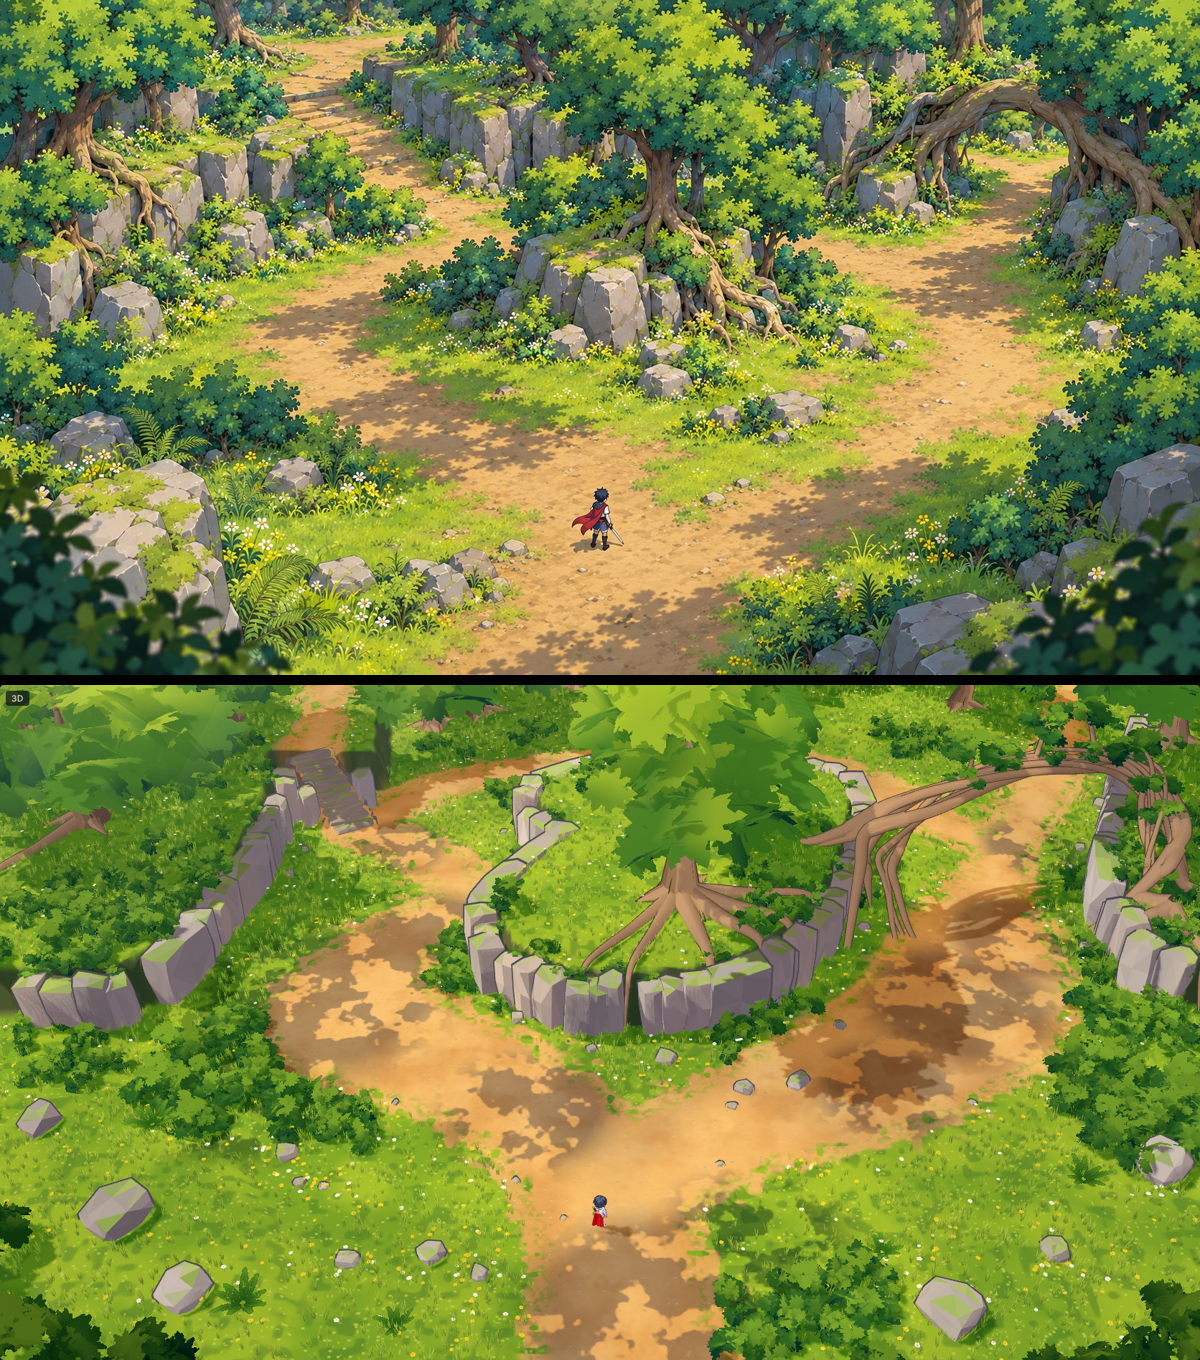
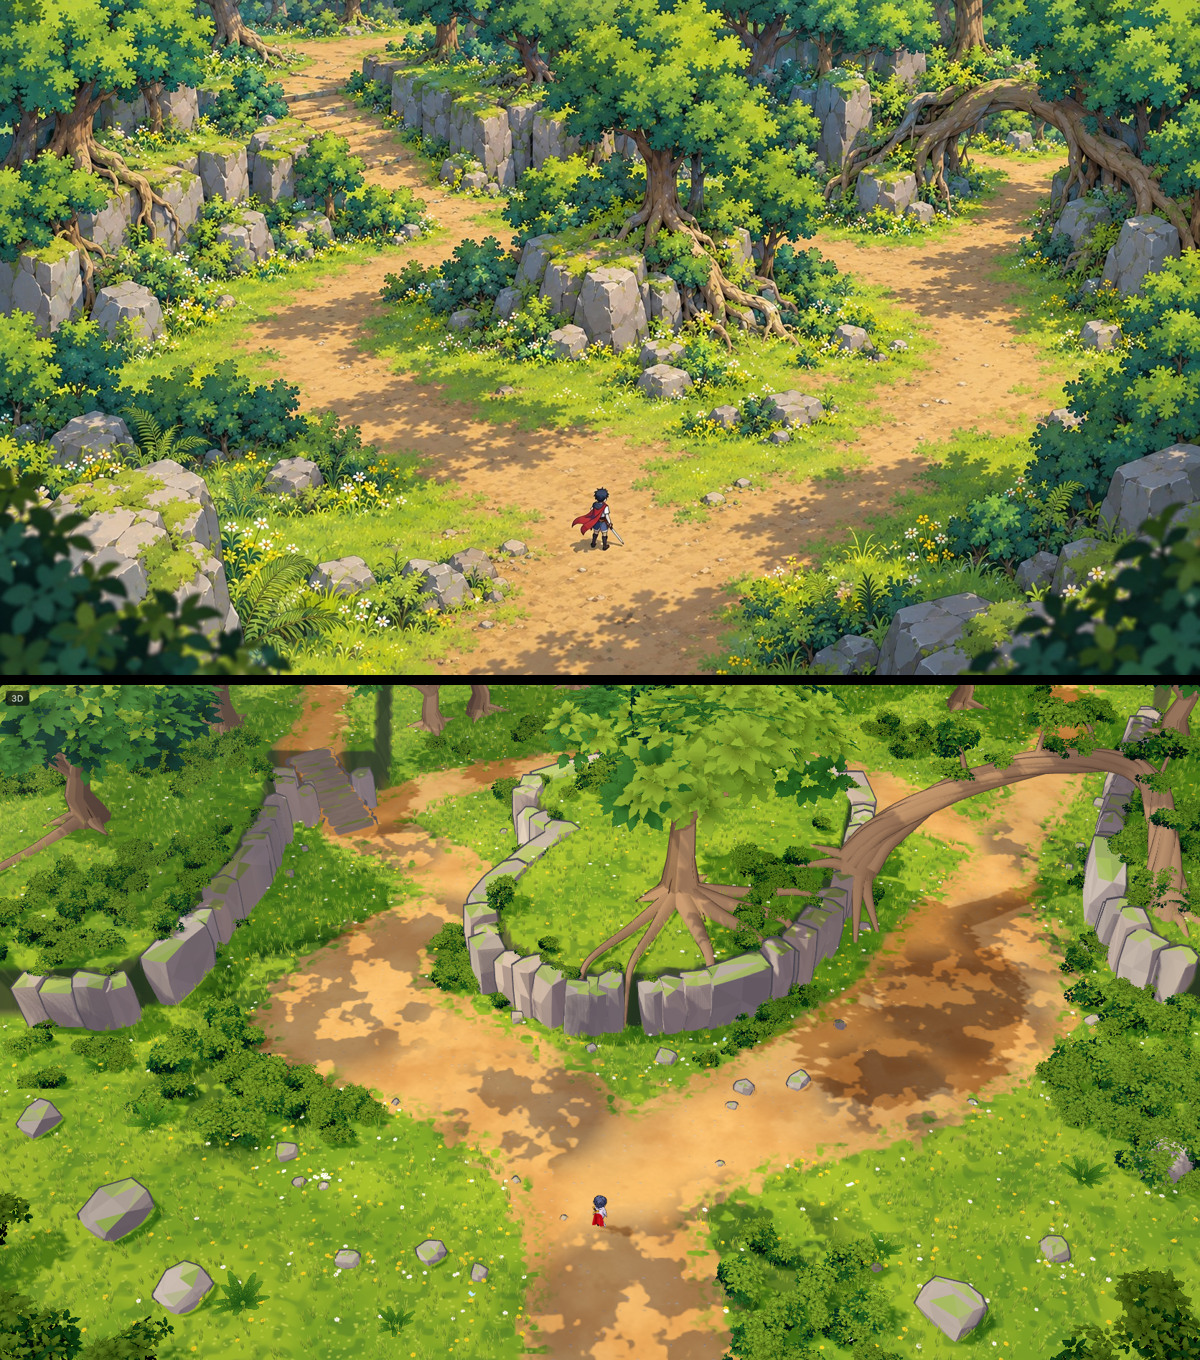
Forest scene: leaf-puff crowns and shrubs, root arch as a twisted trunk with buttresses
Claude-Session: https://claude.ai/code/session_01N6NyACoSM5MyJPcPLs4wAw

diff --git a/scenes/forest/scene.js b/scenes/forest/scene.js
@@ -325,6 +325,83 @@ function fernGeometry() {
   g.setAttribute('normal', new THREE.Float32BufferAttribute(nn, 3)); return g;
 }
 
+// ---------- crowns and shrubs as the concept paints them: many small leaf puffs ----------
+// Each puff is a cluster of cards carrying small lobed leaves; a puff is lit on its own (bright
+// upper-left, deep teal underneath) and a dark core fills the gaps, so a crown reads as a heap
+// of leaf clumps instead of one smooth blob.
+const clumpMaps = new Map();
+function clumpTexture(shrub = false) {
+  if (clumpMaps.has(shrub)) return clumpMaps.get(shrub);
+  const cv = document.createElement('canvas'); cv.width = cv.height = 512;
+  const c = cv.getContext('2d'), rng = mkRng(shrub ? 77 : 41);
+  for (let tile = 0; tile < 4; tile++) {
+    const ox = (tile % 2) * 256 + 128, oy = Math.floor(tile / 2) * 256 + 128;
+    // a rosette of lobed leaves pointing out from the middle, the biggest at the back
+    const n = shrub ? 6 + (tile % 2) : 9 + tile;
+    for (let i = 0; i < n; i++) {
+      const a = i / n * Math.PI * 2 + rng.range(-0.25, 0.25), len = shrub ? rng.range(78, 104) : rng.range(52, 86), wid = len * rng.range(0.42, 0.55);
+      c.save(); c.translate(ox + Math.cos(a) * rng.range(14, 30), oy + Math.sin(a) * rng.range(14, 30)); c.rotate(a);
+      const g = c.createLinearGradient(0, 0, len, 0); g.addColorStop(0, '#b8b8b8'); g.addColorStop(0.55, '#f2f2f2'); g.addColorStop(1, '#ffffff');
+      c.fillStyle = g; c.beginPath(); c.moveTo(0, 0);
+      // three lobes a side with small notches between, a pointed tip
+      for (const side of [-1, 1]) {
+        const pts = [];
+        for (let k = 1; k <= 3; k++) { const t = k / 4; pts.push([len * (t - 0.06), side * wid * 0.5 * Math.sin(t * Math.PI) * 1.15], [len * (t + 0.04), side * wid * 0.5 * Math.sin(t * Math.PI) * 0.72]); }
+        if (side < 0) { for (const [x, y] of pts) c.lineTo(x, y); c.lineTo(len, 0); }
+        else for (const [x, y] of pts.reverse()) c.lineTo(x, y);
+      }
+      c.closePath(); c.fill(); c.restore();
+    }
+  }
+  const t = new THREE.CanvasTexture(cv); t.colorSpace = THREE.SRGBColorSpace; t.anisotropy = 4;
+  clumpMaps.set(shrub, t); return t;
+}
+function clumpFoliage(seed = 3, shrub = false) {
+  const rng = mkRng(seed * 13 + (shrub ? 5 : 1)), p = [], n = [], c = [], uv = [];
+  const [dark, mid, light] = (shrub ? FOL.shrub : FOL.leaf).map(h => new THREE.Color(h));
+  const deep = dark.clone().multiplyScalar(0.72), sunDir = new V3(-0.55, 0.8, 0.25).normalize();
+  // the crown's envelope (unit space, as the game's crowns): a dome for trees, a mound for shrubs
+  const E = shrub ? { x: 0.62, y: 0.45, z: 0.48, cy: 0.42, puffs: 8, r: [0.24, 0.34], cards: 8, lift: 0.16 } : { x: 0.9, y: 0.55, z: 0.75, cy: 0.3, puffs: 28, r: [0.24, 0.36], cards: 13, lift: -0.05 };
+  const puffs = [];
+  for (let i = 0; i < E.puffs; i++) {
+    // spread over the envelope's surface, a few inside; none on the flat underside
+    const u = rng.range(0, Math.PI * 2), v = Math.acos(rng.range(-0.35, 1)), k = i < 3 ? 0.45 : rng.range(0.75, 1.0);
+    puffs.push({ c: new V3(Math.sin(v) * Math.cos(u) * E.x * k, E.cy + Math.cos(v) * E.y * k, Math.sin(v) * Math.sin(u) * E.z * k), r: rng.range(...E.r) });
+  }
+  const col = new THREE.Color(), tmp = new V3();
+  const card = (centre, normal, size, roll, tile, tone) => {
+    const across = new V3().crossVectors(new V3(0, 1, 0), normal); if (across.lengthSq() < 1e-3) across.set(1, 0, 0); else across.normalize();
+    const along = new V3().crossVectors(normal, across).normalize();
+    const x = across.clone().multiplyScalar(Math.cos(roll)).addScaledVector(along, Math.sin(roll)), y = along.clone().multiplyScalar(Math.cos(roll)).addScaledVector(across, -Math.sin(roll));
+    for (const [a, b] of [[-1, -1], [1, -1], [1, 1], [-1, -1], [1, 1], [-1, 1]]) {
+      const v = centre.clone().addScaledVector(x, a * size * 0.5).addScaledVector(y, b * size * 0.5).addScaledVector(normal, size * 0.12 * (1 - Math.abs(a * b)));
+      p.push(v.x, v.y, v.z); n.push(normal.x, normal.y, normal.z); c.push(tone.r, tone.g, tone.b);
+      uv.push(((tile % 2) + (a + 1) * 0.5) * 0.5, (Math.floor(tile / 2) + (b + 1) * 0.5) * 0.5);
+    }
+  };
+  // the dark core: big cards round the middle, so gaps between the puffs show shade, not sky
+  for (let i = 0; i < 10; i++) {
+    const a = i * 2.39996, nrm = new V3(Math.cos(a), rng.range(-0.2, 0.5), Math.sin(a)).normalize();
+    card(new V3(nrm.x * E.x * 0.45, E.cy + nrm.y * E.y * 0.35, nrm.z * E.z * 0.45), nrm, E.x * 0.85, rng.range(-1, 1), i % 4, deep);
+  }
+  for (const P0 of puffs) {
+    const ph = THREE.MathUtils.clamp((P0.c.y - E.cy + E.y) / (2 * E.y), 0, 1), jit = rng.range(-0.06, 0.06);
+    for (let i = 0; i < E.cards; i++) {
+      const a = i * 2.39996 + rng.range(-0.3, 0.3), up = rng.range(-0.25, 1);
+      const nrm = new V3(Math.cos(a) * Math.sqrt(1 - up * up), up, Math.sin(a) * Math.sqrt(1 - up * up)).normalize();
+      const centre = P0.c.clone().addScaledVector(nrm, P0.r * rng.range(0.55, 0.95));
+      // lit by the puff's own roundness and its height in the crown: three hard steps
+      const lit = nrm.dot(sunDir) * 0.5 + ph * 0.45 + jit + 0.12 + E.lift;
+      if (lit > 0.62) col.copy(light); else if (lit > 0.3) col.copy(mid); else col.copy(dark);
+      col.multiplyScalar(rng.range(0.94, 1.05));
+      card(centre, tmp.copy(nrm).lerp(new V3(0, 1, 0), 0.35).normalize(), P0.r * rng.range(1.45, 1.9), rng.range(-3, 3), (i + puffs.indexOf(P0)) % 4, col);
+    }
+  }
+  const g = new THREE.BufferGeometry();
+  for (const [key, array, size] of [['position', p, 3], ['normal', n, 3], ['color', c, 3], ['uv', uv, 2]]) g.setAttribute(key, new THREE.Float32BufferAttribute(array, size));
+  g.computeBoundingSphere(); return g;
+}
+
 // ---------- ambience: motes in the light, butterflies over the flowers ----------
 const AMB = { flies: [], motes: null };
 function buildAmbience() {
@@ -363,7 +440,7 @@ function updateAmbience(t) {
 }
 
 // this scene's colours, measured from the concept: olive-yellow light, deep blue-green shade
-FOL.leaf = ['#1f493b', '#5a8a35', '#a9c13c']; FOL.shrub = ['#1c4437', '#3d6c31', '#7ea23a'];
+FOL.leaf = ['#1d4a3e', '#4d873d', '#a2bf45']; FOL.shrub = ['#1a4236', '#3b7338', '#8cae40'];
 FOL.trunk = { light: '#c49c76', mid: '#9d7b5d', shadow: '#6f5749', line: '#4a372e' };
 STONE.splice(0, STONE.length, '#cdb9a6', '#c2b3a3', '#d2c2b0', '#b9ab9c', '#c8b8a6', '#bcae9f');
 MOSS.splice(0, MOSS.length, '#a7c63f', '#93b23a', '#b5c94c');
@@ -399,30 +476,30 @@ function build() {
     const [ax, az] = P(0.975, 0.335, 3.4), [bx, bz] = P(0.93, 0.25, 0), [cx, cz] = P(0.86, 0.26, 0), [dx2, dz2] = P(0.78, 0.29, 0), [ex, ez] = P(0.715, 0.27, 3.7);
     const a = TS, core = new THREE.CatmullRomCurve3([new V3(ax, 3.2, az), new V3(bx, 6.6, bz), new V3(cx, 8.0, cz), new V3(dx2, 7.4, dz2), new V3(ex + 0.5, 5.4, ez), new V3(ex, 3.55, ez)], false, 'centripetal');
     const M = 32, fr = core.computeFrenetFrames(M, false);
-    // strands wound round the core, a turn and a half end to end, bunched tight over the trail and
-    // loosening toward the feet; thick ones and thin ones, each a little thinner at the crown
-    const STR = [0.36, 0.32, 0.28, 0.24, 0.2, 0.17, 0.14, 0.12];
-    STR.forEach((rb, k) => {
-      const th0 = k / STR.length * Math.PI * 2 + R(-0.3, 0.3), twist = R(8, 10.5), pts = [];
-      for (let i = 0; i <= 16; i++) {
-        const t = 0.05 + 0.9 * i / 16, f = Math.round(t * M), c = core.getPointAt(t);
-        const th = th0 + twist * t + Math.sin(t * 11 + k) * 0.3;
-        const off = (0.42 + 0.95 * Math.pow(Math.abs(2 * t - 1), 2)) * a * (0.8 + 0.35 * Math.sin(k * 1.7 + t * 7));
+    // one thick trunk, swelling into buttresses at both feet, with ropy roots wound round it and half
+    // sunk into it, so the bark reads as twisted cords rather than separate pipes
+    const coreR = t => a * (0.36 + 0.45 * Math.pow(Math.abs(2 * t - 1), 6));
+    tube(core.getSpacedPoints(24), 0, 0, { sides: 11, rf: coreR });
+    for (let k = 0; k < 6; k++) {
+      const th0 = k / 6 * Math.PI * 2, twist = 9 + k * 0.4, rb = [0.27, 0.22, 0.19, 0.25, 0.17, 0.21][k] * a, pts = [];
+      for (let i = 0; i <= 22; i++) {
+        const t = 0.02 + 0.96 * i / 22, f = Math.round(t * M), c = core.getPointAt(t), th = th0 + twist * t + Math.sin(t * 13 + k) * 0.2;
+        const off = coreR(t) * 0.95;
         pts.push(c.clone().addScaledVector(fr.normals[f], Math.cos(th) * off).addScaledVector(fr.binormals[f], Math.sin(th) * off));
       }
-      tube(pts, 0, 0, { sides: 8, rf: t => rb * a * 0.72 * (0.7 + 0.45 * Math.pow(Math.abs(2 * t - 1), 1.5)) });
-      // at each foot the strand carries on as a root leg, splaying out and down to the ground
-      for (const end of [0, 1]) {
-        const e = end ? pts.length - 1 : 0, p = pts[e], q = pts[end ? e - 1 : 1];
-        const out = p.clone().sub(core.getPointAt(end)).setY(0).normalize(), on = p.clone().sub(q).setY(0).normalize();
-        const dir = (out.lengthSq() > 0 ? out.add(on.multiplyScalar(0.6)).normalize() : on).applyAxisAngle(new V3(0, 1, 0), R(-0.5, 0.5)), reach = R(1.0, 2.2) * a;
-        const g = p.clone().addScaledVector(dir, reach); g.y = height(g.x, g.z) - 0.08;
-        // the legs bow outward on the way down and flare into the ground, like a banyan's
-        const m = p.clone().addScaledVector(dir, reach * 0.25); m.y = p.y - (p.y - g.y) * 0.3;
-        const n2 = p.clone().addScaledVector(dir, reach * 0.7); n2.y = g.y + (p.y - g.y) * 0.22;
-        tube([q, p, m, n2, g], 0, 0, { sides: 7, rf: t => rb * a * 0.85 * (1 - 0.6 * t) + 0.04 });
+      tube(pts, 0, 0, { sides: 7, rf: t => rb * (0.75 + 0.5 * Math.pow(Math.abs(2 * t - 1), 2)) });
+    }
+    // buttress roots at each foot: thick, bowing out and down, thinning into the ground
+    for (const end of [0, 1]) {
+      const foot = core.getPointAt(end), inner = core.getPointAt(end ? 0.9 : 0.1), back = foot.clone().sub(inner).setY(0).normalize();
+      for (let k = 0; k < 6; k++) {
+        const dir = back.clone().applyAxisAngle(new V3(0, 1, 0), -1.9 + k * 0.76 + R(-0.2, 0.2)), reach = R(1.6, 2.8) * a;
+        const s0 = foot.clone().addScaledVector(dir, coreR(end) * 0.6); s0.y += 0.15 * a;
+        const g = foot.clone().addScaledVector(dir, reach); g.y = height(g.x, g.z) - 0.1;
+        const m = foot.clone().addScaledVector(dir, reach * 0.4); m.y = foot.y * 0.6 + g.y * 0.4 + 0.25 * a;
+        tube([inner.clone().lerp(foot, 0.6), s0, m, g], 0, 0, { sides: 7, rf: t => a * (0.34 - 0.27 * t) });
       }
-    });
+    }
     // a few thin shoots from the crown of the arch with leaves at their tips, and leaves along the top
     for (const t of [0.3, 0.45, 0.58, 0.72]) {
       const c = core.getPointAt(t), tip = c.clone().add(new V3(R(-1.6, 1.6), R(1.2, 2.2), R(-1.6, 0.6)).multiplyScalar(a));
@@ -430,8 +507,6 @@ function build() {
       addBush(tip.x, tip.y - 0.6 * a, tip.z, R(0.7, 1.0) * a, { sy: 0.6, tint: R(-0.6, 0.2) });
     }
     for (let t = 0.2; t <= 0.82; t += 0.09) { const c = core.getPointAt(t); addBush(c.x + R(-0.4, 0.4), c.y + 0.25 * a, c.z + R(-0.6, 0.2), R(0.45, 0.75) * a, { sy: 0.5, tint: R(-0.8, 0.3) }); }
-    drapeRoots(ax, az, 3.4, [[0.9, 0.36, 1.2], [0.935, 0.42], [0.995, 0.47, 0.9]], 1.2 * TS);
-    drapeRoots(ex, ez, 3.7, [[0.74, 0.32, 0.9], [0.755, 0.24, 0.8]], 1.0 * TS);
     for (const [px, py, pz, s] of [[cx + 0.6, 8.4 * a, cz - 3.2 * a, 1.2 * a], [bx + 1.6, 7.6 * a, bz - 3.0 * a, 1.1 * a]]) crownOnly.push({ x: px, y: py, z: pz, s, ry: R(0, 6.28), v: 1, k: R(0.94, 1.04) });
     COLLIDERS.push({ x: ax, z: az, r: 1.0 }, { x: ex, z: ez, r: 0.9 });
   }
@@ -501,8 +576,8 @@ function build() {
     return mesh;
   };
   const sway = (amp, base) => ({ sway: [amp, base] });
-  const leafMat = shrub => paint({ vertexColors: true, map: branchletTexture(shrub), alphaTest: 0.45, side: THREE.DoubleSide, shade: [0.6, 0.7, 0.72], mid: [0.6, 0.7, 0.72], band: [-5, -5], ...sway(shrub ? 0.02 : 0.016, shrub ? 0 : 1.2) });
-  const leafDepth = shrub => new THREE.MeshDepthMaterial({ depthPacking: THREE.RGBADepthPacking, map: branchletTexture(shrub), alphaTest: 0.45 });
+  const leafMat = shrub => paint({ vertexColors: true, map: clumpTexture(shrub), alphaTest: 0.45, side: THREE.DoubleSide, shade: [0.6, 0.7, 0.72], mid: [0.6, 0.7, 0.72], band: [-5, -5], ...sway(shrub ? 0.02 : 0.016, shrub ? 0 : 1.2) });
+  const leafDepth = shrub => new THREE.MeshDepthMaterial({ depthPacking: THREE.RGBADepthPacking, map: clumpTexture(shrub), alphaTest: 0.45 });
   const trunkGeo = animeTrunk();
   const trunks = placeAll(new THREE.InstancedMesh(trunkGeo, paint({ vertexColors: true, side: THREE.DoubleSide, shade: [0.62, 0.62, 0.7], mid: [0.62, 0.62, 0.7], band: [-5, -5] }), treeItems.length), treeItems, it => new V3(it.s, it.s * (it.h || 1), it.s));
   trunks.castShadow = trunks.receiveShadow = true; scene.add(trunks);
@@ -510,13 +585,13 @@ function build() {
   [3, 5, 9].forEach((seed, v) => {
     const items = [...treeItems.filter(t => t.v === v).map(t => ({ ...t, y: t.y + 3.5 * t.s * (t.h || 1) })), ...crownOnly.filter(c => c.v === v)];
     if (!items.length) return;
-    const crown = placeAll(new THREE.InstancedMesh(animeFoliage(seed, false), leafMat(false), items.length), items, it => new V3(3.0 * it.s, 2.0 * it.s, 2.7 * it.s));
+    const crown = placeAll(new THREE.InstancedMesh(clumpFoliage(seed, false), leafMat(false), items.length), items, it => new V3(3.0 * it.s, 2.0 * it.s, 2.7 * it.s));
     crown.customDepthMaterial = leafDepth(false); crown.castShadow = crown.receiveShadow = true; scene.add(crown);
   });
   [11, 13, 19].forEach((seed, v) => {
     const items = shrubItems.filter(t => t.v === v);
     if (!items.length) return;
-    const mesh = placeAll(new THREE.InstancedMesh(animeFoliage(seed, true), leafMat(true), items.length), items, it => new V3(it.sx, it.sy, it.sz));
+    const mesh = placeAll(new THREE.InstancedMesh(clumpFoliage(seed, true), leafMat(true), items.length), items, it => new V3(it.sx, it.sy, it.sz));
     mesh.customDepthMaterial = leafDepth(true); mesh.castShadow = mesh.receiveShadow = true; scene.add(mesh);
   });
   const grass = placeAll(new THREE.InstancedMesh(meadowGrass(), paint({ vertexColors: true, side: THREE.DoubleSide, shade: [0.6, 0.72, 0.68], mid: [0.6, 0.72, 0.68], band: [-5, -5], ...sway(0.15, 0) }), grassItems.length), grassItems, it => new V3(it.s, it.s, it.s));

diff --git a/scenes/README.md b/scenes/README.md
@@ -35,6 +35,12 @@ Done:
   - trails are Catmull-Rom curves through the authored points. Their edge wanders
     (`edgeWob`), and the bake breaks it up further: a soft ragged border, grass islands on the
     dirt and bare patches in the grass. Grass and bushes follow the same `trailEdge`.
+- Owner feedback round 4 ("not pretty": the root arch and the trees/bushes):
+  - crowns and shrubs use `clumpFoliage`/`clumpTexture` in place of the game's foliage. A crown
+    is many small puffs of lobed-leaf cards; each puff is lit on its own in three hard steps,
+    over a dark core;
+  - the arch is one thick trunk (`coreR`) with six ropy cords wound round it and buttress
+    roots at both feet.
 1. Wait for the owner's feedback on the forest page (artifact HqTbjpLK4p91KHAw3yiJWd).
 2. Known gaps: canopy band at the top thinner than the concept, crowns a little lime, terrace tops
    sparser than the concept, a hard dark shadow patch by the stairs.
